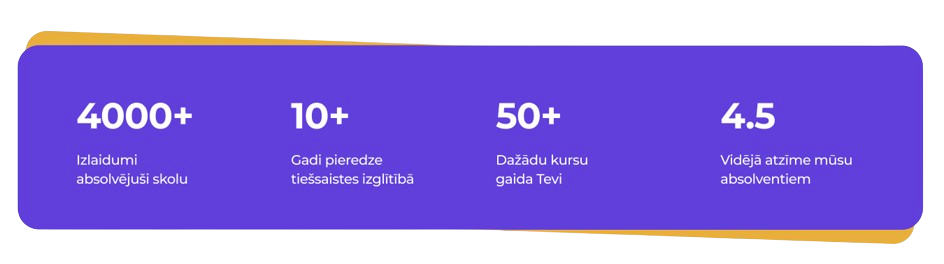
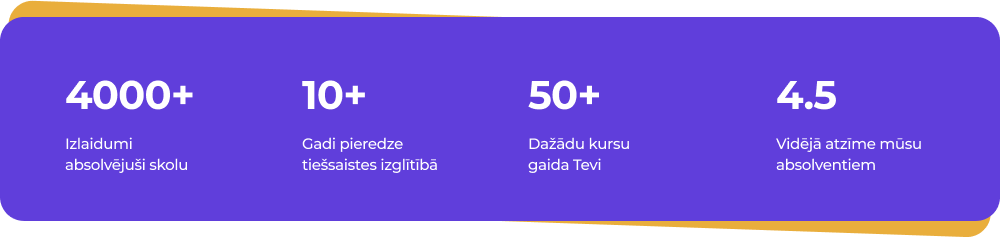
Done 50 % Home Page

diff --git a/src/pages/Home.jsx b/src/pages/Home.jsx
@@ -16,7 +16,7 @@ const Home = () => {
           </div>
         </div>
         <div className="hero-image">
-         <img src="/img/student.png" alt="Student" />
+          <img src="/img/student.png" alt="Student" />
         </div>
       </section>
 
@@ -25,25 +25,33 @@ const Home = () => {
         <img src="/img/stats.png" alt="Stats" className="stats-img" />
       </section>
 
-      {/* Benefits Section */}
+      {/* Benefits Section with images */}
       <section className="benefits">
-        <h2>Tava veiksmīgā nākotne sākas <span className="highlight">šeit</span></h2>
+        <div className = "veiks">
+            <img src="/img/veiksmiga.png" alt="Veiksmiga" />
+        </div>
         <div className="cards">
-          <div className="card yellow">
-            <h3>Eiropas parauga diploms un valsts atestāts</h3>
-            <p>Pēc apmācību beigām Jūs saņemsiet diplomu, kas būs līdzvērtīgs jebkuram citam Eiropas vidējās izglītības dokumentam.</p>
+            <div className="card card-large">
+                <img src="/img/atestats.png" alt="Atestāts" />
+            </div>
+            <div className="card">
+                <img src="/img/macija.png" alt="Grafiks" />
+            </div>
+            <div className="card card-large">
+                <img src="/img/world.png" alt="Pasaule" />
+            </div>
+            <div className="card">
+                <img src="/img/skolotaja.png" alt="Skolotājs" />
+            </div>
+        </div>
+        <div className="join-block">
+          <div className="join-text">
+            <h3>Pievienojies <span className="highlight">4000+ veiksmīgiem skolēniem!</span></h3>
+            <p>[Skolas nosaukums] Jūs atradīsiet ne tikai zināšanas, bet arī domubiedru atbalstu.</p>
+            <button className="primary">Izmēģināt</button>
           </div>
-          <div className="card">
-            <h3>Ērts mācību grafiks</h3>
-            <p>Mācies pats savā ritmā. Nodarbības tiek ierakstītas, tāpēc vari mācīties tad, kad Tev ir ērti.</p>
-          </div>
-          <div className="card">
-            <h3>Mācības no jebkuras vietas pasaulē</h3>
-            <p>Viss, kas Tev nepieciešams, ir internets.</p>
-          </div>
-          <div className="card">
-            <h3>Nodarbības ar pieredzējušiem skolotājiem</h3>
-            <p>Skolotāji ir profesionāļi, kuri pielāgojas skolēnu vajadzībām.</p>
+          <div className="join-image">
+            <img src="/img/join.png" alt="Join us" />
           </div>
         </div>
       </section>

diff --git a/src/pages/Home.css b/src/pages/Home.css
@@ -11,7 +11,9 @@
     justify-content: space-between;
     padding: 60px 40px;
     background-color: #f9f9f9;
+   
   }
+
   
   .hero-content {
     max-width: 600px;
@@ -89,34 +91,52 @@
     font-size: 18px;
   }
   .stats-img{
-    min-width: 1400px;
+    min-width: 00px;
   }
   /* ==== BENEFITS ==== */
-  .benefits {
-    padding: 60px 40px;
-    background: #fff;
-  }
-  
-  .benefits h2 {
-    text-align: center;
-    margin-bottom: 40px;
-  }
-  
-  .cards {
+.benefits {
+  margin: 0;
+  padding: 0 12px;
+}
+
+.cards {
     display: grid;
-    grid-template-columns: repeat(auto-fit, minmax(260px, 1fr));
-    gap: 24px;
+    grid-template-columns: repeat(2, 1fr);
+    grid-template-rows: repeat(2, 220px);
+    gap: 16px;
   }
   
   .card {
-    background: #ede9fe;
-    padding: 24px;
-    border-radius: 16px;
+    border-radius: 14px;
+    overflow: hidden;
+    position: relative; /* это иногда помогает избежать проблем с переполнением */
   }
   
-  .card.yellow {
-    background: #fef08a;
+  .card img {
+    width: 100%;
+    height: 100%;
+    object-fit: cover; /* сохраняет пропорции и обрезает лишнее, не искажая изображение */
   }
+  
+  .card-large {
+    grid-row: span 2;
+  }
+  
+  @media (max-width: 768px) {
+    .cards {
+      grid-template-columns: 1fr;
+      grid-template-rows: auto;
+    }
+    .card-large {
+      grid-row: span 1;
+    }
+  }
+  
+  
+  
+  
+
+  
   
   /* ==== CTA ==== */
   .cta {
